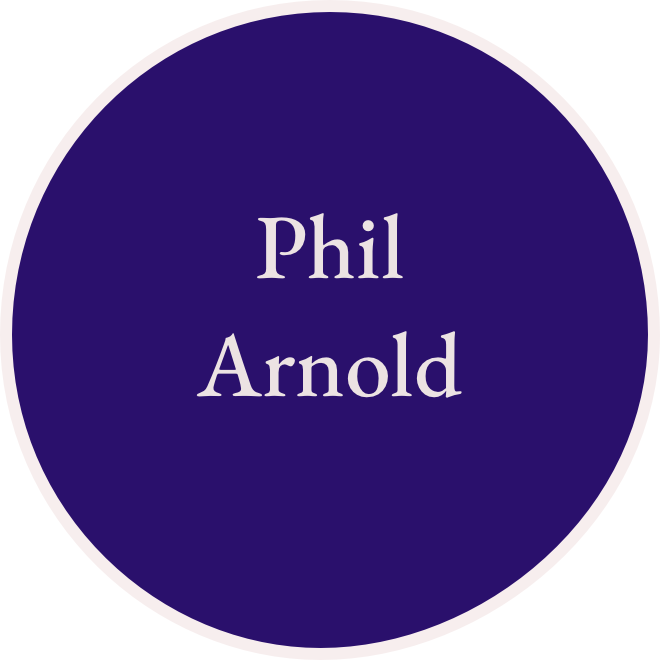
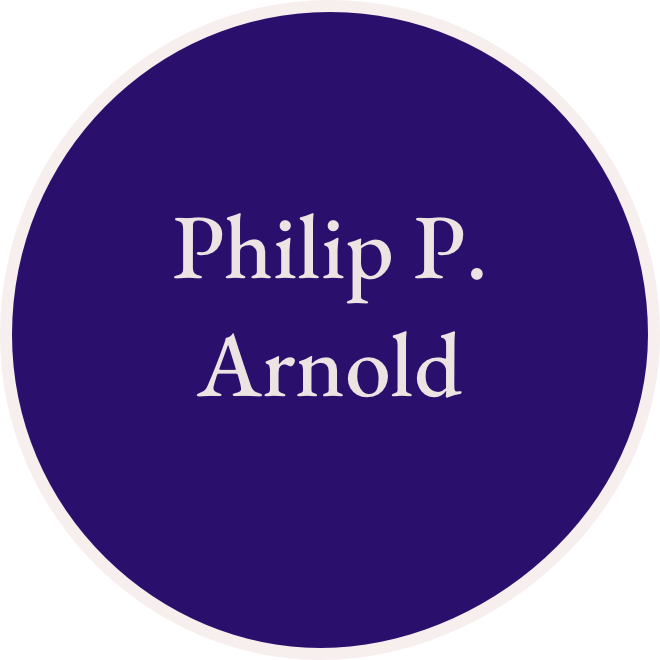
disables store links

Changed region(s): [[0.2727, 0.303, 0.6061, 0.4848], [0.6364, 0.303, 0.7273, 0.4242], [0.697, 0.3939, 0.7273, 0.4242]]

diff --git a/index.html b/index.html
@@ -38,8 +38,8 @@
           <h2>A Monument in Extended Reality</h2>
         </div>
         <div class="store-links">
-          <a class="store-link" href="#" title="Coming Soon"><img src="bin-img/app-store.svg"></a>
-          <a class="store-link" href="#" title="Coming Soon"><img src="bin-img/g-play.svg"></a>
+          <a class="store-link disabled" href="#" title="Coming Soon"><img src="bin-img/app-store.svg"></a>
+          <a class="store-link disabled" href="#" title="Coming Soon"><img src="bin-img/g-play.svg"></a>
         </div>
         <a class="btn-fill" href="player.html">Web VR 
           <svg xmlns="http://www.w3.org/2000/svg" width="24" height="24" viewBox="0 0 24 24" fill="none" stroke="currentColor" stroke-width="2" stroke-linecap="round" stroke-linejoin="round" class="feather feather-play-circle"><circle cx="12" cy="12" r="10"></circle><polygon points="10 8 16 12 10 16 10 8"></polygon></svg>
@@ -64,7 +64,7 @@
       <p>The following people shared their stories about the circle. Click on a person to read their full story.</p>
       <div class="voices-wrap">
         <button class="voice-card">
-          <h4>Phillip P. Arnold</h4>
+          <h4>Philip P. Arnold</h4>
           <figure class="collapse">
             <audio
               controls
@@ -442,7 +442,7 @@
       <div class="foot-wrap">
         <span class="ip">&copy; 2022 Stories from the Circle</span>
         <span class="social">
-          <a class="foot-link" href="https://github.com/ericyork/stories">
+          <a class="foot-link" href="https://github.com/storiesfromthecircle/stories">
             <svg xmlns="http://www.w3.org/2000/svg" width="24" height="24" viewBox="0 0 24 24" fill="none" stroke="currentColor" stroke-width="2" stroke-linecap="round" stroke-linejoin="round" class="feather feather-github"><path d="M9 19c-5 1.5-5-2.5-7-3m14 6v-3.87a3.37 3.37 0 0 0-.94-2.61c3.14-.35 6.44-1.54 6.44-7A5.44 5.44 0 0 0 20 4.77 5.07 5.07 0 0 0 19.91 1S18.73.65 16 2.48a13.38 13.38 0 0 0-7 0C6.27.65 5.09 1 5.09 1A5.07 5.07 0 0 0 5 4.77a5.44 5.44 0 0 0-1.5 3.78c0 5.42 3.3 6.61 6.44 7A3.37 3.37 0 0 0 9 18.13V22"></path></svg>
              GitHub
           </a>

diff --git a/assets/style.css b/assets/style.css
@@ -170,6 +170,9 @@ a.nav-link:active, a.foot-link:active {color: var(--white);}
   display: flex;
   flex-direction: row;
   justify-content: space-evenly;
+    /*-- --*/
+    display: none;
+    /*-- --*/
 }
 .store-link img {
   opacity: 1;
@@ -179,7 +182,7 @@ a.nav-link:active, a.foot-link:active {color: var(--white);}
   opacity: .7;
 }
 .store-link.disabled img {
-  opacity: .5;
+  opacity: .2;
   cursor: not-allowed;
 }
 .store-link.disabled img:hover {
